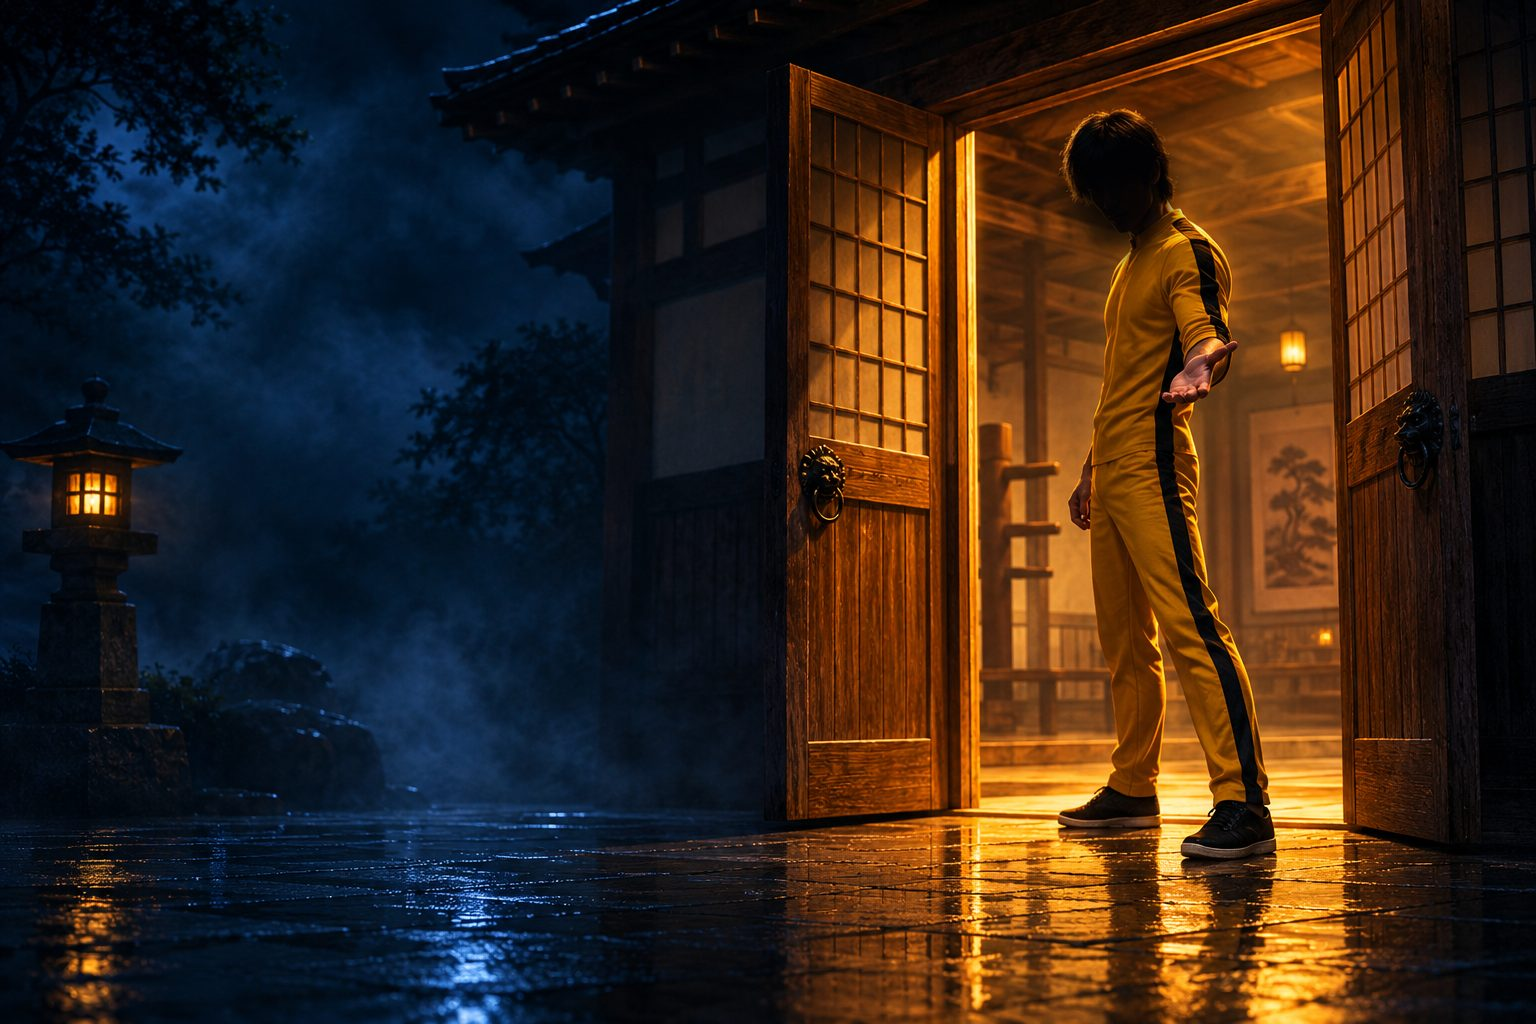
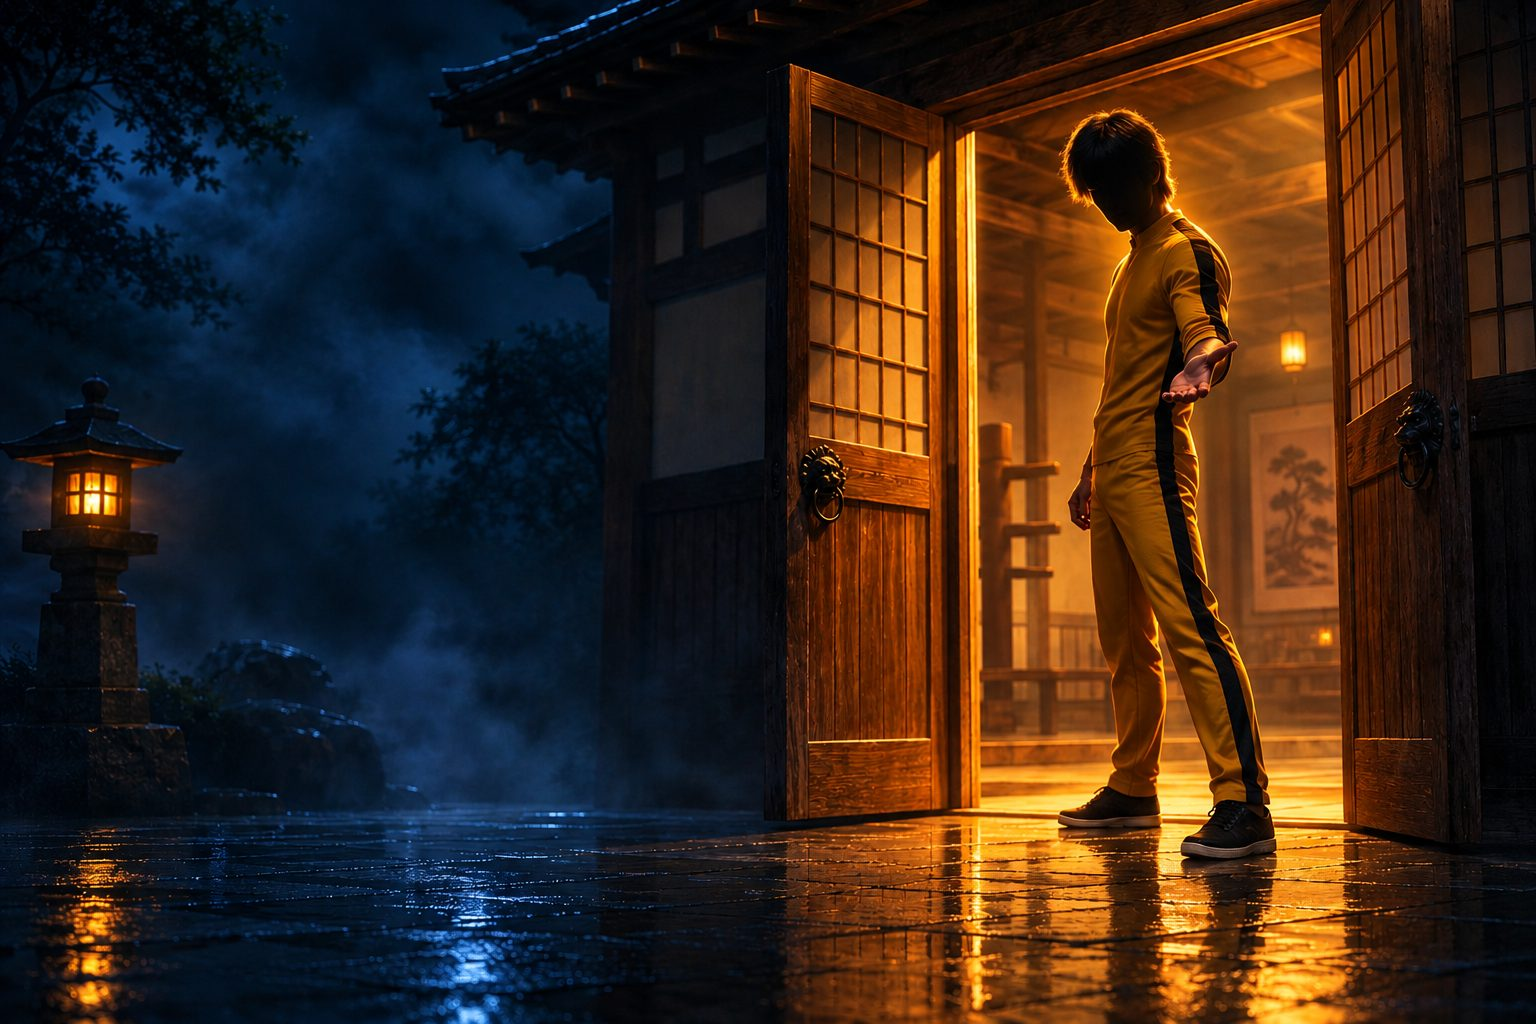
Оновлення сайту 2026-11-01 16:02

diff --git a/index.html b/index.html
@@ -138,7 +138,7 @@
 
   /* заклик */
   .cta { text-align:center; padding:120px 0 130px; position:relative; overflow:hidden; isolation:isolate;
-    background:linear-gradient(180deg, var(--bg), rgba(11,14,19,.45) 35%, rgba(11,14,19,.55) 75%, var(--bg)), url(img/cta.jpg?v=99e5729e) center 10% / cover no-repeat; }
+    background:linear-gradient(180deg, var(--bg), rgba(11,14,19,.45) 35%, rgba(11,14,19,.55) 75%, var(--bg)), url(img/cta.jpg?v=1db27096) center 10% / cover no-repeat; }
   .cta h2 { text-shadow:0 6px 40px rgba(0,0,0,.6); }
   .cta::before { content:""; position:absolute; left:50%; top:50%; width:900px; height:900px; transform:translate(-50%, -50%); border-radius:50%;
     background:repeating-radial-gradient(circle, transparent 0 58px, rgba(63,162,255,.07) 58px 60px); animation:ripple 9s linear infinite; z-index:-1;
